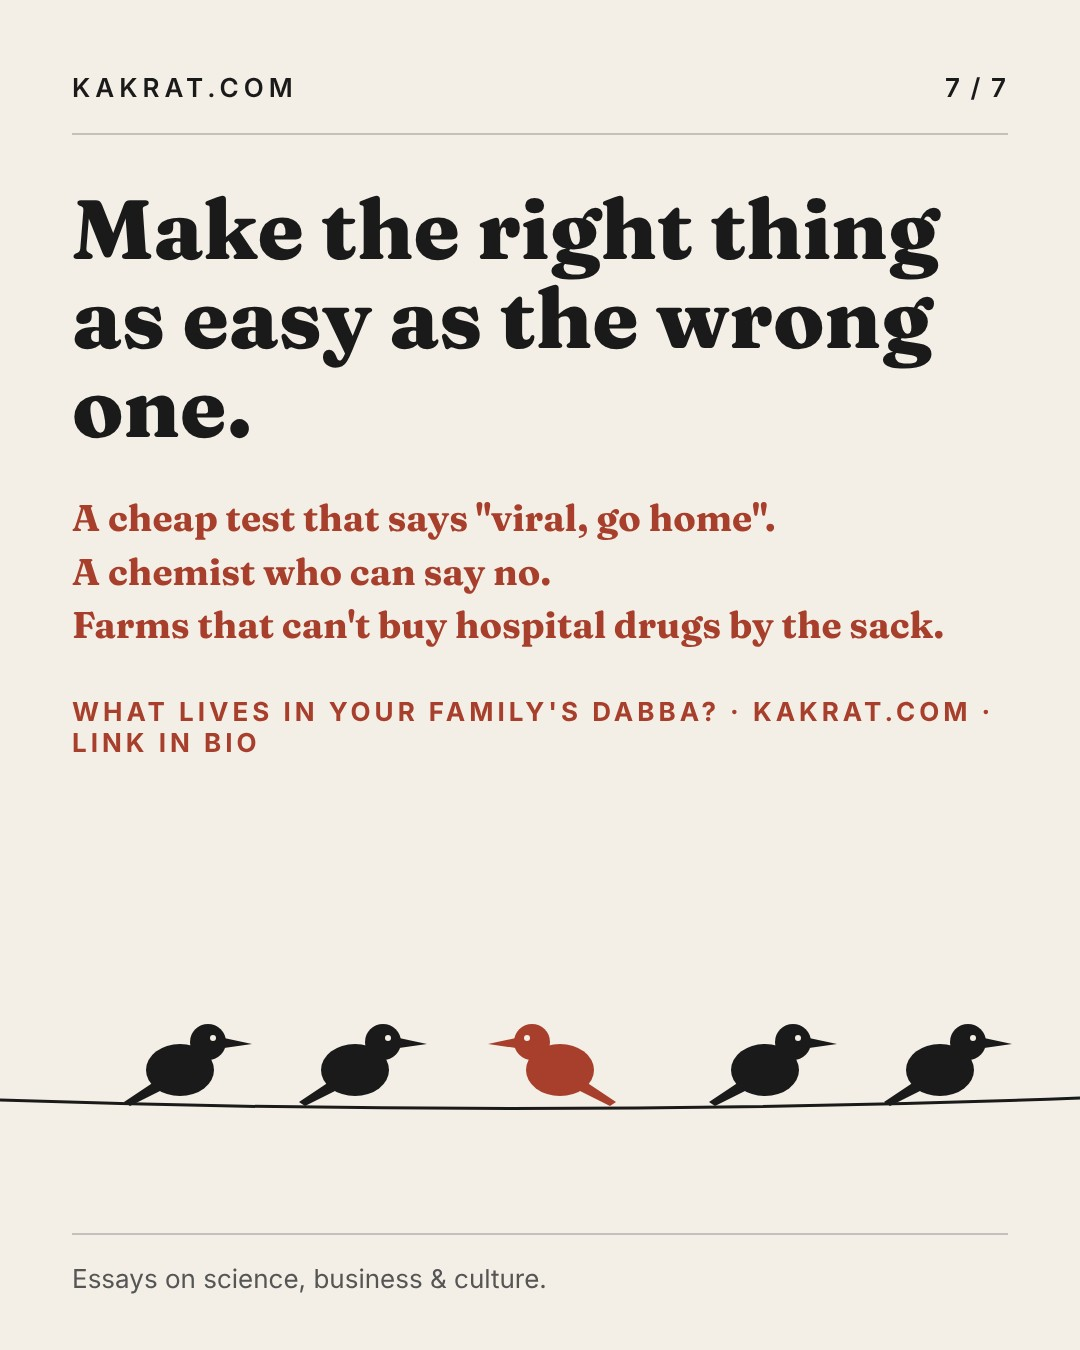
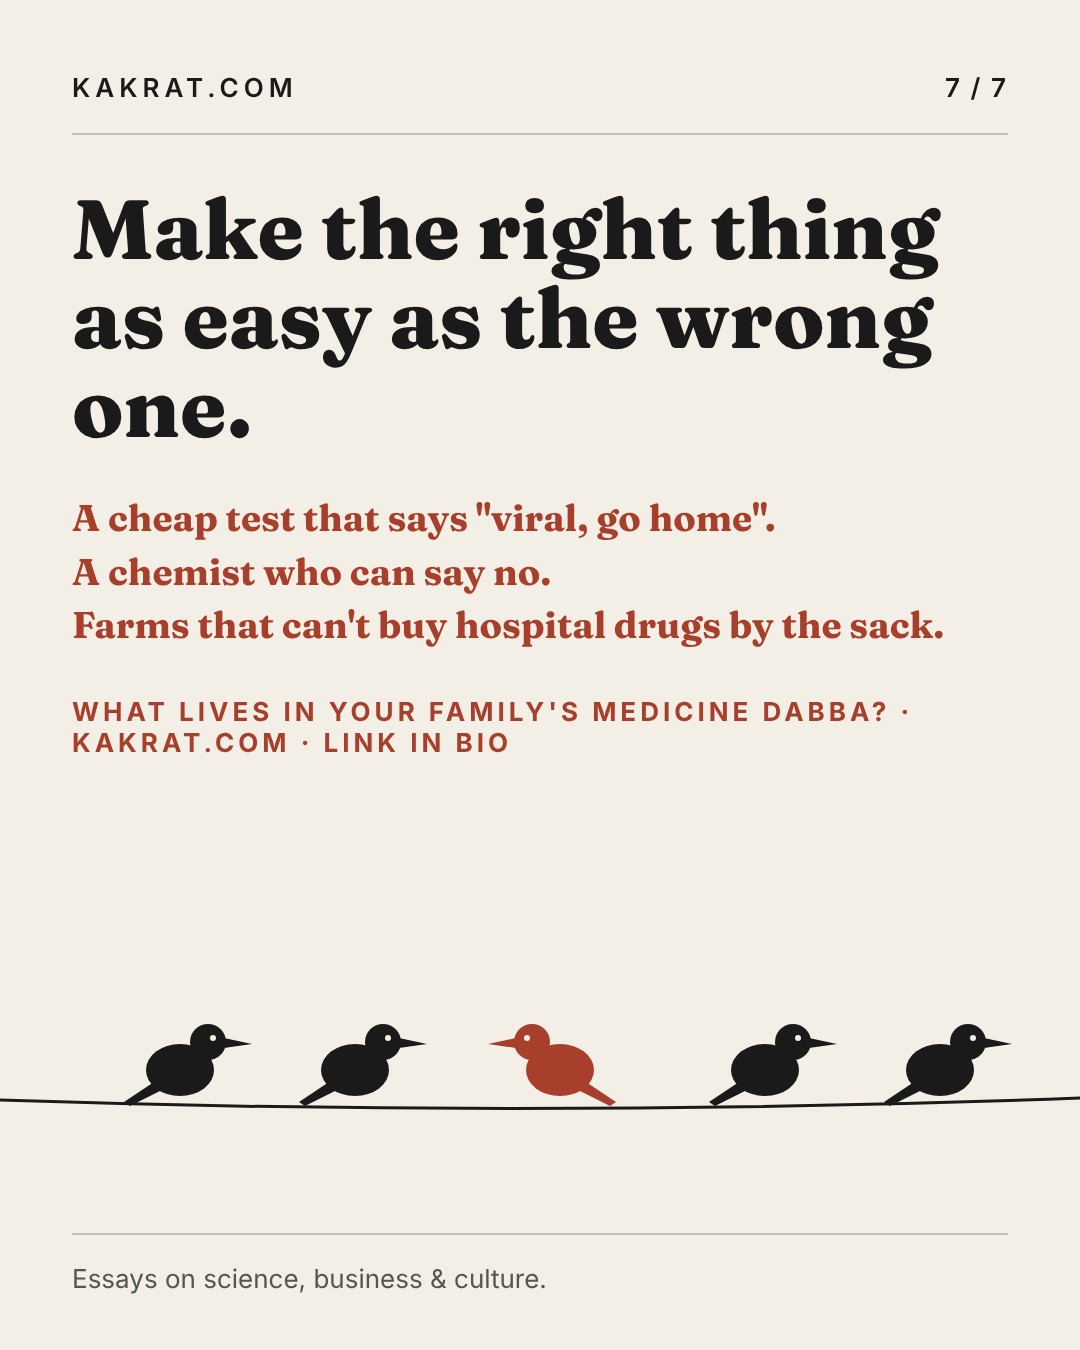
Revise text per owner: PhD paragraph, chickens line, medicine dabba; drop source note
Claude-Session: https://claude.ai/code/session_01M3G9KBUCBKG647iTqF4DtL

Changed region(s): [[0.55, 0.4978, 0.8861, 0.56], [0.0611, 0.5289, 0.275, 0.56], [0.3056, 0.5289, 0.4889, 0.56]]

diff --git a/docs/social/2026-11-antibiotics.md b/docs/social/2026-11-antibiotics.md
@@ -12,7 +12,7 @@ This is the story of that marriage: how it began in a messy lab in 1928, how we 
 
 (Not advice about your own tablets. Take what your doctor prescribed, for as long as your doctor said.)
 
-What lives in your family's dabba? Confess below.
+What lives in your family's medicine dabba? Confess below.
 
 Read it at kakrat.com (link in bio)
 
